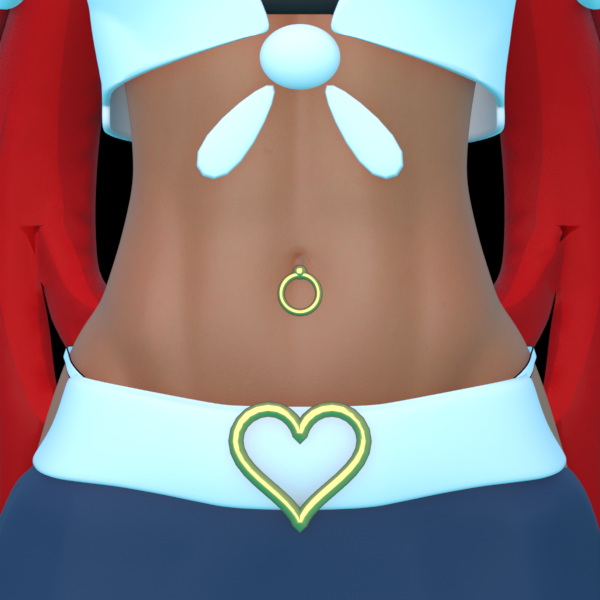
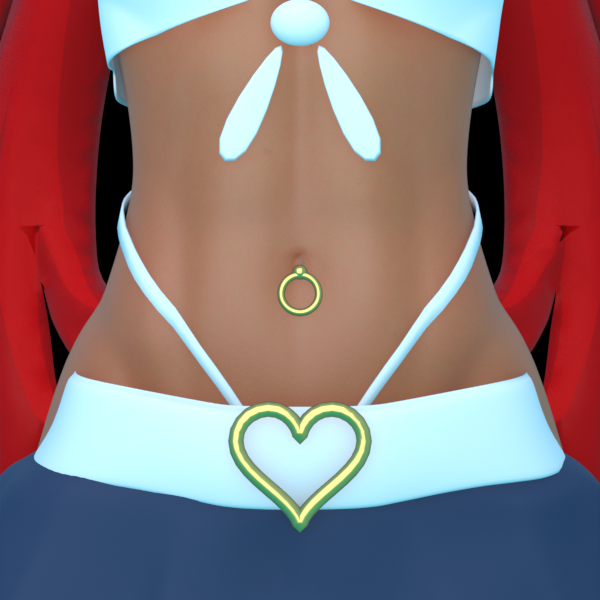
Restyle: slimmer shirt, fixed bandeau lettering, pleated micro skirt, thong straps
Thin the shirt and sleeves, remove the puffy shoulder sleeves and open the
front wider; centre the bandeau on the bust and keep its lettering in
proportion; shorten and flare the skirt with box pleats; swap the bikini
bottom for the thong and add high-rise white hip straps.

Claude-Session: https://claude.ai/code/session_01YBmGHDL1HPYT4vQtLqAYCC

diff --git a/character_restyle/restyle.py b/character_restyle/restyle.py
@@ -37,6 +37,8 @@ LIP_PINK = (0.75, 0.25, 0.25, 1.0)
 IRIS_DARK = (0.20, 0.0, 0.01)
 IRIS_LIGHT = (0.70, 0.03, 0.04)
 SKIRT_DROP = 0.055                   # metres
+SKIRT_LENGTH = 0.78                  # fraction of the original pleat length
+PLEATS = 12
 NAVY = (0.018, 0.030, 0.075, 1.0)
 WHITE = (0.80, 0.80, 0.82, 1.0)
 HERE = os.path.dirname(os.path.abspath(__file__))
@@ -194,7 +196,15 @@ setp("2. Lipstick Color", LIP_PINK)
 wardrobe = arm.pose.bones["Clothes 2"]
 wardrobe["1. Bra"] = 4                    # no optional top (0-2 pick one), the bandeau replaces it
 wardrobe["3. Stockings"] = 4              # no optional stockings (0-2 pick one of the three sets)
-wardrobe["4. Color Base"] = list(WHITE)   # white hip straps showing above the belt
+wardrobe["4. Color Base"] = list(WHITE)
+# swap the bikini bottom for the thong: read which value of the switch shows it
+import re
+for fc in bpy.data.objects["Thong_01"].animation_data.drivers:
+    if fc.data_path == "hide_render":
+        found = re.search(r"==\s*(\d+)", fc.driver.expression)
+        print("thong driver:", fc.driver.expression)
+        if found:
+            wardrobe["3. Bottom"] = int(found.group(1))
 
 # ---------------------------------------------------------------- eyes
 img = bpy.data.images["T_F_Std_Head_D.png"]
@@ -288,8 +298,10 @@ def wrap(center, axis, radius_from, n=48):
         a = 2 * math.pi * i / n
         d = u * math.cos(a) + v * math.sin(a)
         loc, _ = hit(Vector(center) + d * radius_from, -d, radius_from)
-        pts.append(loc if loc else Vector(center))
-    return pts
+        pts.append((loc, d))
+    found = [(p - Vector(center)).length for p, _d in pts if p]
+    mean = sum(found) / len(found) if found else 0.03
+    return [p if p else Vector(center) + d * mean for p, d in pts]
 
 
 def offset_loop(loop, center, axis, amount):
@@ -356,7 +368,8 @@ bsdf = band_mat.node_tree.nodes["Principled BSDF"]
 bsdf.inputs["Roughness"].default_value = 0.7
 band_mat.node_tree.links.new(tex.outputs["Color"], bsdf.inputs["Base Color"])
 N = 72
-levels = [1.378 + 0.0155 * k for k in range(7)]
+bust_z = (bone_pt("L_Nipple").z + bone_pt("R_Nipple").z) / 2      # centre the band on the bust
+levels = [bust_z - 0.040 + 0.016 * k for k in range(6)]
 loops = []
 for z in levels:
     c = Vector((0, 0.03, z))
@@ -365,7 +378,7 @@ for z in levels:
         a = 2 * math.pi * (i / N - 0.5)          # a = 0 is straight ahead
         d = Vector((math.sin(a), -math.cos(a), 0))
         loc, _ = hit(c, d, 0.6)
-        loop.append(loc + d * 0.004)
+        loop.append(loc + d * 0.002)
     # stretch flat across the cleavage instead of dipping into it
     left = min((p for p in loop if p.x > 0.02), key=lambda p: p.y)
     right = min((p for p in loop if p.x < -0.02), key=lambda p: p.y)
@@ -374,6 +387,9 @@ for z in levels:
             t = (p.x - right.x) / (left.x - right.x)
             p.y = min(p.y, right.y + (left.y - right.y) * t)
     loops.append(loop)
+# keep the lettering undistorted: one image tile is as wide as (band height x image aspect)
+girth = sum((loops[2][i] - loops[2][(i + 1) % N]).length for i in range(N))
+tiles = girth / ((levels[-1] - levels[0]) * label.size[0] / label.size[1])
 bm = bmesh.new()
 uvl = bm.loops.layers.uv.new("UVMap")
 vs = [[bm.verts.new(p) for p in loop] for loop in loops]
@@ -382,9 +398,8 @@ for r in range(len(loops) - 1):
         j = (i + 1) % N
         f = bm.faces.new((vs[r][i], vs[r][j], vs[r + 1][j], vs[r + 1][i]))
         f.smooth = True
-        # the label image is tiled 3x around the chest; lettering sits on the front tile
         for lp, (uu, vv) in zip(f.loops, ((i, r), (i + 1, r), (i + 1, r + 1), (i, r + 1))):
-            lp[uvl].uv = ((uu / N - 0.5) * 3.2 + 0.5, vv / (len(loops) - 1))
+            lp[uvl].uv = ((uu / N - 0.5) * tiles + 0.5, vv / (len(loops) - 1))
 me = bpy.data.meshes.new("Bandeau")
 bm.to_mesh(me)
 bm.free()
@@ -392,23 +407,26 @@ bandeau = new_obj("Bandeau", me, bpy.data.collections["Top"], band_mat)
 tex.extension = "CLIP"
 skin_to_body(bandeau)
 sol = bandeau.modifiers.new("Solidify", "SOLIDIFY")
-sol.thickness = 0.002
+sol.thickness = 0.0012
 sol.offset = 1.0
 
 # ---------------------------------------------------------------- long sleeves, pushed up the forearm
 for side, sx in (("L", 1), ("R", -1)):
-    chain = [bone_pt(side + "_ShldrTwist"), bone_pt(side + "_ShldrTwist", True),
+    chain = [bone_pt(side + "_ShldrBend"), bone_pt(side + "_ShldrBend", True),
+             bone_pt(side + "_ShldrTwist", True),
              bone_pt(side + "_ForearmBend"), bone_pt(side + "_ForearmBend", True),
              bone_pt(side + "_ForearmTwist", True)]
-    stops = [(0, 1, 0.15), (0, 1, 0.55), (0, 1, 0.95), (2, 3, 0.25), (2, 3, 0.65), (3, 4, 0.05),
-             (3, 4, 0.25), (3, 4, 0.36), (3, 4, 0.37), (3, 4, 0.47)]
+    stops = [(0, 1, 0.50), (0, 1, 0.80), (1, 2, 0.15), (1, 2, 0.55), (1, 2, 0.95), (3, 4, 0.25), (3, 4, 0.65),
+             (4, 5, 0.05), (4, 5, 0.25), (4, 5, 0.36), (4, 5, 0.37), (4, 5, 0.47)]
     rings = []
     for k, (i0, i1, t) in enumerate(stops):
         c = chain[i0].lerp(chain[i1], t)
         ax = (chain[i1] - chain[i0]).normalized()
-        puff = 0.011 if k < len(stops) - 2 else 0.017      # last two rings = turned-back cuff
-        rings.append(offset_loop(wrap(c, ax, 0.085, n=24), c, ax, puff))
-    sleeve = band("Shirt Sleeve " + side, rings, uniform, cotton, 0.003)
+        ease = 0.003 if k < 2 else 0.0045                 # tucks under the shirt body at the shoulder
+        if k >= len(stops) - 2:
+            ease = 0.008                                   # last two rings = turned-back cuff
+        rings.append(offset_loop(wrap(c, ax, 0.085, n=24), c, ax, ease))
+    sleeve = band("Shirt Sleeve " + side, rings, uniform, cotton, 0.0012)
     skin_to_body(sleeve)
     sleeve.modifiers.new("Subdivision", "SUBSURF").levels = 1
 
@@ -586,7 +604,7 @@ islands.sort(key=len, reverse=True)
 scarf = min(islands, key=lambda isl: sum(v.co.y for v in isl) / len(isl))   # the red neckerchief hangs in front
 bmesh.ops.delete(bm, geom=list(scarf), context="VERTS")
 # below the bust the old top sits inside the torso, so the shirt is cropped there
-KNOT_W = 1.365                            # knot height in world space
+KNOT_W = 1.385                            # knot height in world space
 SC = shirt.scale.z                        # the uniform objects carry an object scale
 KNOT_Z, TOP_Z, HEM_Z = KNOT_W / SC, (KNOT_W + 0.225) / SC, (KNOT_W - 0.04) / SC
 front_y = min(v.co.y for v in bm.verts if abs(v.co.x) < 0.03 and KNOT_Z - 0.02 < v.co.z < KNOT_Z + 0.02)
@@ -609,12 +627,27 @@ def bisect(co, no, pred):
 planes = []
 for sx in (1, -1):
     # open front: a V from the knot up to the collar
-    planes.append(("v", sx, Vector((sx * 0.012, 0, KNOT_Z)), Vector((sx * (TOP_Z - KNOT_Z), 0, -0.085)).normalized()))
+    planes.append(("v", sx, Vector((sx * 0.012, 0, KNOT_Z)), Vector((sx * 0.15, 0, -0.085)).normalized()))
     # hem: rises from the hips to the knot
     planes.append(("hem", sx, Vector((sx * 0.02, 0, KNOT_Z)), Vector((sx * (KNOT_Z - HEM_Z), 0, 0.14)).normalized()))
 for kind, sx, co, no in planes:
     bisect(co, no, lambda f, sx=sx: is_front(f) and f.calc_center_median().x * sx > -0.005)
 bisect(Vector((0, 0, HEM_Z)), Vector((0, 0, 1)), lambda f: not is_front(f))
+# drop the puffy short sleeves at the shoulder; the long sleeves take over from there
+def near_arm(c, cut):
+    """True for points beyond the cut plane that belong to the sleeve, not the side of the torso."""
+    rel = c - cut[0]
+    along = rel.dot(cut[1])
+    return along > -0.02 and (rel - cut[1] * along).length < 0.085
+
+
+arm_cuts = []
+for side, sx in (("L", 1), ("R", -1)):
+    a0, a1 = bone_pt(side + "_ShldrBend") / SC, bone_pt(side + "_ShldrBend", True) / SC
+    cut = (a0.lerp(a1, 0.72), (a1 - a0).normalized())
+    arm_cuts.append((sx, cut))
+    bisect(cut[0], cut[1], lambda f, sx=sx, cut=cut: f.calc_center_median().x * sx > 0.10
+           and near_arm(f.calc_center_median(), cut))
 bmesh.ops.remove_doubles(bm, verts=bm.verts, dist=1e-6)
 
 kill = []
@@ -623,7 +656,11 @@ for f in bm.faces:
     sx = 1 if c.x >= 0 else -1
     v_co, v_no = next((co, no) for k, s, co, no in planes if k == "v" and s == sx)
     h_co, h_no = next((co, no) for k, s, co, no in planes if k == "hem" and s == sx)
-    if abs(c.x) > 0.21:                      # sleeves stay
+    a_co, a_no = next(cut for s, cut in arm_cuts if s == sx)
+    if abs(c.x) > 0.10 and (c - a_co).dot(a_no) > 0 and near_arm(c, (a_co, a_no)):
+        kill.append(f)
+        continue
+    if abs(c.x) > 0.21:
         continue
     if is_front(f):
         if (c - v_co).dot(v_no) < 0 and c.z > KNOT_Z - 0.03:
@@ -634,8 +671,6 @@ for f in bm.faces:
         kill.append(f)
 bmesh.ops.delete(bm, geom=kill, context="FACES")
 bm.normal_update()
-for v in bm.verts:                           # ease the cloth off the body so nothing pokes through
-    v.co += v.normal * 0.004
 for f in bm.faces:
     f.material_index = 0
     f.smooth = True
@@ -650,23 +685,23 @@ wrapm = shirt.modifiers.new("Rebel Keep Outside Body", "SHRINKWRAP")   # the old
 wrapm.target = body
 wrapm.wrap_method = "NEAREST_SURFACEPOINT"
 wrapm.wrap_mode = "OUTSIDE"
-wrapm.offset = 0.009
+wrapm.offset = 0.0065
 sol = shirt.modifiers.new("Rebel Thickness", "SOLIDIFY")
-sol.thickness = 0.004
+sol.thickness = 0.0012
 sol.offset = 1.0
 
 # knot + two tails, riding the lower chest bone
 bm = bmesh.new()
 skin, _ = hit((0, -1, KNOT_W - 0.012), (0, 1, 0))
-ky = min(skin.y - 0.016, front_y * SC + 0.004)
+ky = skin.y - 0.011
 kz = KNOT_W - 0.012
 bmesh.ops.create_uvsphere(bm, u_segments=16, v_segments=10, radius=0.5,
-                          matrix=Matrix.Translation((0, ky, kz)) @ Matrix.Diagonal((0.046, 0.030, 0.036, 1)))
+                          matrix=Matrix.Translation((0, ky, kz)) @ Matrix.Diagonal((0.034, 0.020, 0.026, 1)))
 for sx in (1, -1):
-    tail = bmesh.ops.create_cone(bm, cap_ends=True, segments=4, radius1=0.007, radius2=0.030, depth=0.075)
-    mat_t = (Matrix.Translation((sx * 0.034, ky + 0.002, kz - 0.040))
-             @ Matrix.Rotation(sx * math.radians(-38), 4, "Y")
-             @ Matrix.Diagonal((1.0, 0.22, 1.0, 1))
+    tail = bmesh.ops.create_cone(bm, cap_ends=True, segments=4, radius1=0.005, radius2=0.024, depth=0.085)
+    mat_t = (Matrix.Translation((sx * 0.026, ky + 0.003, kz - 0.044))
+             @ Matrix.Rotation(sx * math.radians(-26), 4, "Y")
+             @ Matrix.Diagonal((1.0, 0.12, 1.0, 1))
              @ Matrix.Rotation(math.pi, 4, "X")
              @ Matrix.Rotation(math.radians(45), 4, "Z"))
     bmesh.ops.transform(bm, matrix=mat_t, verts=tail["verts"])
@@ -733,6 +768,19 @@ for v in belt:
 bz = (sum(v.co.z for v in buckle) / len(buckle) - SKIRT_DROP) * skirt.scale.z
 by = min(v.co.y for v in buckle) * skirt.scale.y
 bmesh.ops.delete(bm, geom=list(buckle), context="VERTS")
+# micro length, flared hem and deep box pleats
+p_top = max(v.co.z for v in pleats)
+p_low = min(v.co.z for v in pleats)
+cy = sum(v.co.y for v in pleats) / len(pleats)
+for v in pleats:
+    h = (p_top - v.co.z) / (p_top - p_low)             # 0 at the waist, 1 at the hem
+    v.co.z = p_top - (p_top - v.co.z) * SKIRT_LENGTH
+    ang = math.atan2(v.co.x, -(v.co.y - cy))
+    wave = math.sin(ang * PLEATS)
+    wave = math.copysign(abs(wave) ** 0.45, wave)      # squared-off folds rather than ripples
+    grow = 1 + h * (0.16 + 0.085 * wave)
+    v.co.x *= grow
+    v.co.y = cy + (v.co.y - cy) * grow
 for v in bm.verts:
     v.co.z -= SKIRT_DROP
     k = max(0.0, min(1.0, (v.co.z - 0.93) / 0.12))   # ease the waistband open so it clears the hips
@@ -741,7 +789,7 @@ for v in bm.verts:
 bm.to_mesh(skirt.data)
 bm.free()
 white_belt = make_mat("Rebel White Belt", WHITE, rough=0.45)
-skirt.data.materials[0] = striped("Rebel Navy Skirt", 0.14, 0.20)
+skirt.data.materials[0] = striped("Rebel Navy Skirt", 0.09, 0.16)
 for i in range(1, len(skirt.data.materials)):
     skirt.data.materials[i] = white_belt
 
@@ -762,6 +810,31 @@ heart = bpy.data.objects.new("Heart Buckle", hc)
 uniform.objects.link(heart)
 hc.materials.append(gold)
 bone_parent(heart, "pelvis")
+
+# ---------------------------------------------------------------- thong + high-rise white hip straps
+strap_mat = make_mat("Rebel White Strap", WHITE, rough=0.6)
+for name in ("Thong_01",):
+    th = bpy.data.objects[name]
+    for i in range(len(th.data.materials)):
+        th.data.materials[i] = strap_mat
+    # only the part below the belt line is wanted; the tall straps are built separately
+    vg = th.vertex_groups.new(name="Rebel Under Belt")
+    vg.add([v.index for v in th.data.vertices if (th.matrix_world @ v.co).z < 1.15], 1.0, "REPLACE")
+    mask = th.modifiers.new("Rebel Under Belt", "MASK")
+    mask.vertex_group = vg.name
+SN = 96
+Z_FRONT, Z_SIDE, Z_BACK = 1.085, 1.285, 1.15
+strap_loops = [[], []]
+for i in range(SN):
+    a = 2 * math.pi * i / SN                          # 0 = straight ahead
+    d = Vector((math.sin(a), -math.cos(a), 0))
+    low = Z_FRONT if math.cos(a) > 0 else Z_BACK
+    z = low + (Z_SIDE - low) * abs(math.sin(a)) ** 0.8
+    for k, dz in enumerate((-0.0055, 0.0055)):
+        loc, _ = hit(Vector((0, 0.0, z + dz)), d, 0.6)
+        strap_loops[k].append(loc + d * 0.0025)
+straps = band("Thong Straps", strap_loops, bpy.data.collections["Bottom"], strap_mat, 0.0015)
+skin_to_body(straps)
 
 # ---------------------------------------------------------------- thigh-highs: navy with a white band
 socks = bpy.data.objects["Socks"]

diff --git a/character_restyle/make_label.py b/character_restyle/make_label.py
@@ -8,13 +8,13 @@ from pathlib import Path
 from PIL import Image, ImageDraw, ImageFont
 
 FONT = sys.argv[1] if len(sys.argv) > 1 else "/usr/share/fonts/opentype/ipafont-gothic/ipag.ttf"
-W, H = 4096, 384
+W, H = 2048, 560   # one tile; restyle.py keeps this aspect ratio on the garment
 img = Image.new("RGB", (W, H), (5, 6, 9))
 draw = ImageDraw.Draw(img)
-font = ImageFont.truetype(FONT, 250)
+font = ImageFont.truetype(FONT, 300)
 text = "ビッチ"
-box = draw.textbbox((0, 0), text, font=font, stroke_width=7)
+box = draw.textbbox((0, 0), text, font=font, stroke_width=9)
 x = (W - (box[2] - box[0])) // 2 - box[0]
 y = (H - (box[3] - box[1])) // 2 - box[1]
-draw.text((x, y), text, font=font, fill=(240, 240, 240), stroke_width=7, stroke_fill=(240, 240, 240))
+draw.text((x, y), text, font=font, fill=(240, 240, 240), stroke_width=9, stroke_fill=(240, 240, 240))
 img.save(Path(__file__).with_name("label_bitch.png"))
